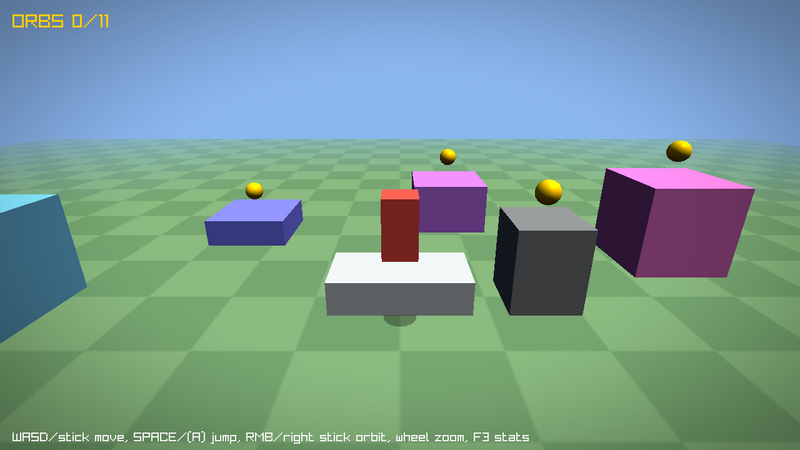
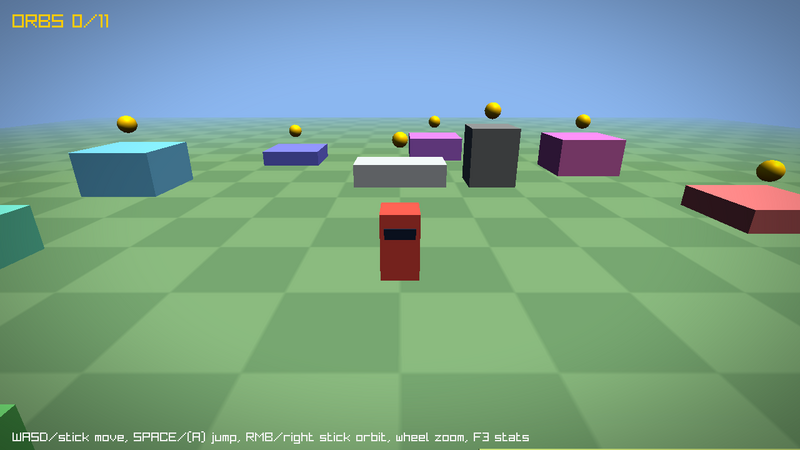
Fix software renderer readback/update bugs, C++ layer and example bugs
raylib (software renderer, rlsw):
- rlReadScreenPixels(): rlsw returns top-down BGRA data, skip the extra
  flip and swap channels back (screenshots were upside down, R/B swapped)
- Add swGetTexImage() and map glGetTexImage() to it: LoadImageFromTexture()
  silently returned an all-black image
- swTexSubImage2D(): pass pixel indices (not byte offsets) to pixel
  read/write helpers, fixing a heap buffer overflow in the conversion path
- swTexSubImage2D(): track texture transparency on updates so blending is
  not skipped for textures that gain transparent pixels

raylib.hpp:
- Timer: created stopped, Stop() also halts repeating timers
- FixedTimestep: guard non-positive step (endless loop, division by zero)
- FrameStats: guard zero budget; ScreenShake: wrap noise time when idle

Examples: platformer requests the goal scene change once; 3D pillar
heights reachable with the jump height.

Claude-Session: https://claude.ai/code/session_01MTnkpSvQrZ2FiWxW3J8PNd

Changed region(s): [[0.0, 0.2178, 1.0, 0.7778], [0.5938, 0.9956, 1.0, 1.0], [0.0, 0.9022, 0.0625, 1.0]]

diff --git a/src/external/rlsw.h b/src/external/rlsw.h
@@ -494,7 +494,7 @@ typedef double              GLclampd;
 #define glShadeModel(X)                             ((void)(X))
 #define glFrontFace(X)                              ((void)(X))
 #define glDepthFunc(X)                              ((void)(X))
-#define glGetTexImage(X,Y,Z,W,A)                    ((void)(X),(void)(Y),(void)(Z),(void)(W),(void)(A))
+#define glGetTexImage(tr, l, f, t, p)               swGetTexImage((f), (t), (p))
 #define glNormal3f(X,Y,Z)                           ((void)(X),(void)(Y),(void)(Z))
 #define glNormal3fv(X)                              ((void)(X))
 #define glNormalPointer(X,Y,Z)                      ((void)(X),(void)(Y),(void)(Z))
@@ -747,6 +747,7 @@ SWAPI void swDeleteTextures(int count, uint32_t *textures);
 SWAPI void swBindTexture(uint32_t id);
 SWAPI void swTexImage2D(int width, int height, SWformat format, SWtype type, const void *data);
 SWAPI void swTexSubImage2D(GLint x, GLint y, GLsizei width, GLsizei height, GLenum format, GLenum type, const void *pixels);
+SWAPI void swGetTexImage(SWformat format, SWtype type, void *pixels); // Read bound texture pixels, converting to requested format
 SWAPI void swTexParameteri(int param, int value);
 
 SWAPI void swGenFramebuffers(int count, uint32_t *framebuffers);
@@ -5004,6 +5005,11 @@ void swTexSubImage2D(GLint x, GLint y, GLsizei width, GLsizei height, GLenum for
     const uint8_t *srcBytes = (const uint8_t *)pixels;
     uint8_t *dstBytes = (uint8_t *)RLSW.boundTexture->pixels;
 
+    // Transparency can only be gained by a partial update, never lost (the rest of the texture is not checked)
+    const sw_pixel_alpha_t dstAlpha = SW_PIXELFORMAT_ALPHA[RLSW.boundTexture->format];
+    const bool trackAlpha = (dstAlpha != SW_PIXEL_ALPHA_NONE) && (RLSW.boundTexture->alpha == SW_PIXEL_ALPHA_NONE);
+    bool alphaFound = false;
+
     if (srcPixelFormat == RLSW.boundTexture->format)
     {
         const int rowSize = width*dstPixelSize;
@@ -5016,30 +5022,91 @@ void swTexSubImage2D(GLint x, GLint y, GLsizei width, GLsizei height, GLenum for
         for (int j = 0; j < height; ++j)
         {
             for (int i = 0; i < rowSize; ++i) dstRow[i] = srcRow[i];
+
+            if (trackAlpha && !alphaFound)
+            {
+                for (int i = 0; i < width; ++i)
+                {
+                    float color[4];
+                    readColor(color, srcRow, i);
+                    if (color[3] < 1.0f) { alphaFound = true; break; }
+                }
+            }
+
             dstRow += dstStride;
             srcRow += srcStride;
         }
-        return;
     }
-
-    bool alphaFound = false;
-
-    for (int j = 0; j < height; ++j)
+    else
     {
-        for (int i = 0; i < width; ++i)
+        for (int j = 0; j < height; ++j)
         {
-            float color[4];
-            const int srcPixelOffset = ((j*width) + i)*srcPixelSize;
-            const int dstPixelOffset = (((y + j)*RLSW.boundTexture->width) + (x + i))*dstPixelSize;
+            for (int i = 0; i < width; ++i)
+            {
+                float color[4];
 
-            readColor(color, srcBytes, srcPixelOffset);
-            alphaFound |= (color[3] < 1.0f);
+                // NOTE: Pixel read/write functions expect a pixel index, not a byte offset
+                const int srcPixelIndex = (j*width) + i;
+                const int dstPixelIndex = ((y + j)*RLSW.boundTexture->width) + (x + i);
 
-            writeColor(dstBytes, color, dstPixelOffset);
+                readColor(color, srcBytes, srcPixelIndex);
+                alphaFound |= (color[3] < 1.0f);
+
+                writeColor(dstBytes, color, dstPixelIndex);
+            }
         }
     }
 
-    RLSW.boundTexture->alpha = alphaFound? SW_PIXELFORMAT_ALPHA[srcPixelFormat] : SW_PIXEL_ALPHA_NONE;
+    if (trackAlpha && alphaFound) RLSW.boundTexture->alpha = dstAlpha;
+}
+
+void swGetTexImage(SWformat format, SWtype type, void *pixels)
+{
+    if (sw_immediate_is_active())
+    {
+        RLSW.errCode = SW_INVALID_OPERATION;
+        return;
+    }
+
+    if (!sw_is_texture_complete(RLSW.boundTexture) || (pixels == NULL))
+    {
+        RLSW.errCode = SW_INVALID_VALUE;
+        return;
+    }
+
+    const sw_texture_t *tex = RLSW.boundTexture;
+    sw_pixelformat_t dstPixelFormat = (sw_pixelformat_t)sw_pixel_get_format(format, type);
+    if (dstPixelFormat <= SW_PIXELFORMAT_UNKNOWN)
+    {
+        RLSW.errCode = SW_INVALID_ENUM;
+        return;
+    }
+
+    const int pixelCount = tex->width*tex->height;
+
+    // Same format: raw copy, rows in storage order (bottom-up for framebuffer attachments, like OpenGL)
+    if (dstPixelFormat == tex->format)
+    {
+        const int size = pixelCount*SW_PIXELFORMAT_SIZE[tex->format];
+        const uint8_t *src = (const uint8_t *)tex->pixels;
+        uint8_t *dst = (uint8_t *)pixels;
+        for (int i = 0; i < size; ++i) dst[i] = src[i];
+        return;
+    }
+
+    sw_pixel_write_color_f writeColor = sw_pixel_get_write_color_func(dstPixelFormat);
+    if ((tex->readColor == NULL) || (writeColor == NULL)) // Depth formats can not be converted to color
+    {
+        RLSW.errCode = SW_INVALID_OPERATION;
+        return;
+    }
+
+    for (int i = 0; i < pixelCount; ++i)
+    {
+        float color[4];
+        tex->readColor(color, tex->pixels, i);
+        writeColor(pixels, color, i);
+    }
 }
 
 void swTexParameteri(int param, int value)

diff --git a/src/raylib.hpp b/src/raylib.hpp
@@ -393,6 +393,8 @@ public:
     // Returns true while a simulation step is due, consuming it
     bool Step() noexcept
     {
+        if (step <= 0.0f) return false;     // Invalid step, avoid an endless loop
+
         if (accumulator >= step)
         {
             accumulator -= step;
@@ -404,7 +406,7 @@ public:
     }
 
     float Dt() const noexcept { return step; }
-    float Alpha() const noexcept { return (float)(accumulator/step); }
+    float Alpha() const noexcept { return (step > 0.0f)? (float)(accumulator/step) : 0.0f; }
     std::uint64_t StepCount() const noexcept { return stepCount; }
     void SetStep(float stepSeconds) noexcept { step = stepSeconds; }
     void Reset() noexcept { accumulator = 0.0; stepCount = 0; }
@@ -929,16 +931,17 @@ private:
 };
 
 // Countdown timer for cooldowns, spawners, invulnerability windows...
+// Timers are created stopped, Start() runs them, non-repeating timers stop after firing
 class Timer
 {
 public:
     Timer() = default;
-    explicit Timer(float seconds, bool repeating = false) : duration(seconds), remaining(seconds), repeat(repeating) {}
+    explicit Timer(float seconds, bool repeating = false) : duration(seconds), repeat(repeating) {}
 
     // Returns the number of times the timer fired during this update (0 or 1, more for repeating timers on long frames)
     int Update(float dt)
     {
-        if ((remaining <= 0.0f) && !repeat) return 0;
+        if (!running) return 0;
 
         remaining -= dt;
         int fired = 0;
@@ -954,17 +957,18 @@ public:
         else if (remaining <= 0.0f)
         {
             remaining = 0.0f;
+            running = false;
             fired = 1;
         }
 
         return fired;
     }
 
-    void Start() { remaining = duration; }
-    void Start(float newDuration) { duration = newDuration; remaining = newDuration; }
-    void Stop() { remaining = 0.0f; }
+    void Start() { remaining = duration; running = true; }
+    void Start(float newDuration) { duration = newDuration; Start(); }
+    void Stop() { remaining = 0.0f; running = false; }
 
-    bool IsRunning() const { return remaining > 0.0f; }
+    bool IsRunning() const { return running; }
     float Remaining() const { return remaining; }
     float Progress() const { return (duration > 0.0f)? 1.0f - remaining/duration : 1.0f; }
 
@@ -972,6 +976,7 @@ private:
     float duration = 0.0f;
     float remaining = 0.0f;
     bool repeat = false;
+    bool running = false;
 };
 
 //----------------------------------------------------------------------------------
@@ -1055,6 +1060,7 @@ public:
     {
         trauma = (trauma - decay*dt > 0.0f)? trauma - decay*dt : 0.0f;
         time += dt;
+        if ((trauma <= 0.0f) && (time > 1000.0f)) time = 0.0f;   // Keep float precision on long sessions (no visible jump while idle)
     }
 
     float Trauma() const { return trauma; }
@@ -1273,6 +1279,7 @@ public:
         ::DrawText(text, x + 4, y + 4, 10, RAYWHITE);
 
         int baseY = y + 22 + height;
+        if (budget <= 0.0f) budget = 1.0f/60.0f;
         float scale = (float)height/(budget*2.0f);
         ::DrawLine(x + 4, baseY - (int)(budget*scale), x + 4 + width, baseY - (int)(budget*scale), Color{ 255, 255, 255, 80 });
 

diff --git a/src/rlgl.h b/src/rlgl.h
@@ -3794,6 +3794,24 @@ unsigned char *rlReadScreenPixels(int width, int height)
 {
     unsigned char *imgData = (unsigned char *)RL_CALLOC(width*height*4, sizeof(unsigned char));
 
+#if defined(GRAPHICS_API_OPENGL_SOFTWARE)
+    // NOTE: rlsw returns framebuffer rows already top-down (ready for presentation), so no flip is needed,
+    // but channels come as BGRA when RLSW_FRAMEBUFFER_OUTPUT_BGRA is enabled (default), swap them back to RGBA
+    glReadPixels(0, 0, width, height, GL_RGBA, GL_UNSIGNED_BYTE, imgData);
+
+    for (int i = 0; i < width*height*4; i += 4)
+    {
+    #if RLSW_FRAMEBUFFER_OUTPUT_BGRA
+        unsigned char b = imgData[i];
+        imgData[i] = imgData[i + 2];
+        imgData[i + 2] = b;
+    #endif
+        imgData[i + 3] = 255; // Set alpha component value to 255 (no trasparent image retrieval)
+    }
+
+    return imgData;     // NOTE: image data should be freed
+#endif
+
     // NOTE: Buffer retrieved is GL_FRONT in single-buffered configurations
     // and GL_BACK in double-buffered configurations, make sure to call it at the end of frame
     //glReadBuffer(GL_BACK);

diff --git a/examples/cpp/cpp_platformer_2d.cpp b/examples/cpp/cpp_platformer_2d.cpp
@@ -213,6 +213,7 @@ public:
 
     void FixedUpdate(float dt) override
     {
+        if (finished) return;   // Scene change already requested, remaining steps this frame are skipped
         previousPosition = position;
 
         // Horizontal movement with acceleration
@@ -263,6 +264,7 @@ public:
 
         if (Overlaps(box, 'G'))
         {
+            finished = true;
             ctx.lastTime = elapsed;
             ctx.lastCoins = collectedCoins;
             Scenes().Replace<TitleScene>(ctx);
@@ -377,6 +379,7 @@ private:
     Vector2 velocity = { 0.0f, 0.0f };
     bool onGround = false;
     bool facingLeft = false;
+    bool finished = false;
     float moveInput = 0.0f;
     rl::Timer coyote{ 0.1f };
     rl::Timer jumpBuffer{ 0.12f };

diff --git a/examples/cpp/cpp_third_person_3d.cpp b/examples/cpp/cpp_third_person_3d.cpp
@@ -172,7 +172,7 @@ int main(void)
     for (int i = 0; i < 9; i++)
     {
         float angle = (float)i/9.0f*2.0f*PI;
-        float height = 1.0f + (float)(i%3)*1.0f;
+        float height = 0.75f + (float)(i%3)*0.5f;      // Max jump height is ~2 units, every top is reachable
         pillars.push_back({ Vector3{ cosf(angle)*12.0f, height/2.0f, sinf(angle)*12.0f }, Vector3{ 3.0f, height, 3.0f }, ColorFromHSV((float)i*40.0f, 0.45f, 0.9f) });
     }
     pillars.push_back({ Vector3{ 0.0f, 0.5f, -5.0f }, Vector3{ 4.0f, 1.0f, 2.0f }, LIGHTGRAY });

diff --git a/CHANGELOG.md b/CHANGELOG.md
@@ -37,7 +37,21 @@ The format follows [Keep a Changelog](https://keepachangelog.com/en/1.1.0/).
   - Example names now come from `NAME_WE` instead of `string(REPLACE ".c" ...)`, which would have mangled `.cpp` file names.
 - **Installs:** `raylib.hpp` is now installed with the other public headers by CMake (`raylib_public_headers`), `src/Makefile` (`install`/`uninstall`) and `build.zig`.
 
-### Known issues (upstream, not introduced by this fork)
+### Fixed
 
-- **Software renderer: screenshots come out flipped and with red and blue swapped.** With `GRAPHICS_API_OPENGL_SOFTWARE`, `glReadPixels()` maps to `swReadPixels()`. That function returns the presentation format: rows already top-down, and BGRA when `RLSW_FRAMEBUFFER_OUTPUT_BGRA` is true (the default). `rlReadScreenPixels()` assumes OpenGL semantics (bottom-up RGBA) and flips the rows again. As a result, `LoadImageFromScreen()` and `TakeScreenshot()` return upside-down images with red and blue swapped. Reproduce with `ClearBackground(RED)`: the screenshot pixel reads `(55, 41, 230)` instead of `(230, 41, 55)`.
-- **Software renderer: `LoadImageFromTexture()` always fails.** `rlReadTexturePixels()` has no `GRAPHICS_API_OPENGL_SOFTWARE` branch, and `glGetTexImage()` is a no-op macro in `rlsw.h`. Reading back any texture or render texture logs "Failed to retrieve pixel data" and returns an empty image.
+These are raylib bugs present in upstream 6.2, all in the **software renderer** (`GRAPHICS_API_OPENGL_SOFTWARE`, rlsw). Each has a regression test that fails before the fix and passes after it.
+
+- **`LoadImageFromScreen()` / `TakeScreenshot()` came out upside down with red and blue swapped.** `glReadPixels()` maps to `swReadPixels()`, which returns presentation-ready data: rows already top-down, and BGRA when `RLSW_FRAMEBUFFER_OUTPUT_BGRA` is true (the default). `rlReadScreenPixels()` assumed OpenGL semantics and flipped the rows again. The software path in `rlReadScreenPixels()` now skips the flip and swaps the channels back. `swReadPixels()` is unchanged, because 7 platform backends rely on it to display frames.
+- **`LoadImageFromTexture()` silently returned an all-black image.** In `rlsw.h`, `glGetTexImage()` was a no-op macro. rlgl's OpenGL 1.1 path (which the software renderer uses) still logged "Pixel data retrieved successfully" and returned zeroed memory. Added `swGetTexImage()`: a raw copy when formats match, per-pixel conversion otherwise, with rows in storage order as in OpenGL. `glGetTexImage()` now maps to it. This covers textures and render textures in every uncompressed 8-bit-based format.
+- **Heap buffer overflow in `swTexSubImage2D()`.** In the format-conversion path, the pixel read/write helpers take a pixel index, but the code passed byte offsets (`index*pixelSize`). It read and wrote up to 4x past the end of both buffers. AddressSanitizer flags it as a heap-buffer-overflow.
+- **Transparent pixels ignored after `UpdateTexture()`.** rlsw disables blending for textures flagged as opaque. `swTexSubImage2D()` never updated that flag when the formats matched, so an opaque texture updated with transparent pixels drew those pixels without blending. In the conversion path, it overwrote the flag for the whole texture using only the updated rectangle. Transparency can now be gained by an update but never lost.
+
+Bugs fixed in the C++ layer and examples during review:
+
+- **`rl::Timer` started running on construction**, which made the example players jump on the first frame (coyote and jump-buffer timers were both active). Timers are now created stopped, and `Start()` runs them.
+- **`rl::Timer::Stop()` didn't stop repeating timers:** the next `Update()` re-armed them and fired.
+- **`rl::FixedTimestep` with a step of 0 or less** made `Step()` return true forever, which hung the game loop. `Alpha()` also divided by zero. Both are now guarded.
+- **`rl::FrameStats::Draw()` divided by zero** when given a budget of 0.
+- **`rl::ScreenShake` lost float precision in long sessions.** The noise time now wraps while the shake is idle.
+- **`cpp_platformer_2d` queued one scene change per fixed step** when reaching the goal (up to several per frame).
+- **`cpp_third_person_3d` couldn't be completed:** three pillars (3 units tall) were higher than the jump (about 2 units) and too far from their neighbours to reach. Pillar heights are now 0.75 / 1.25 / 1.75.
